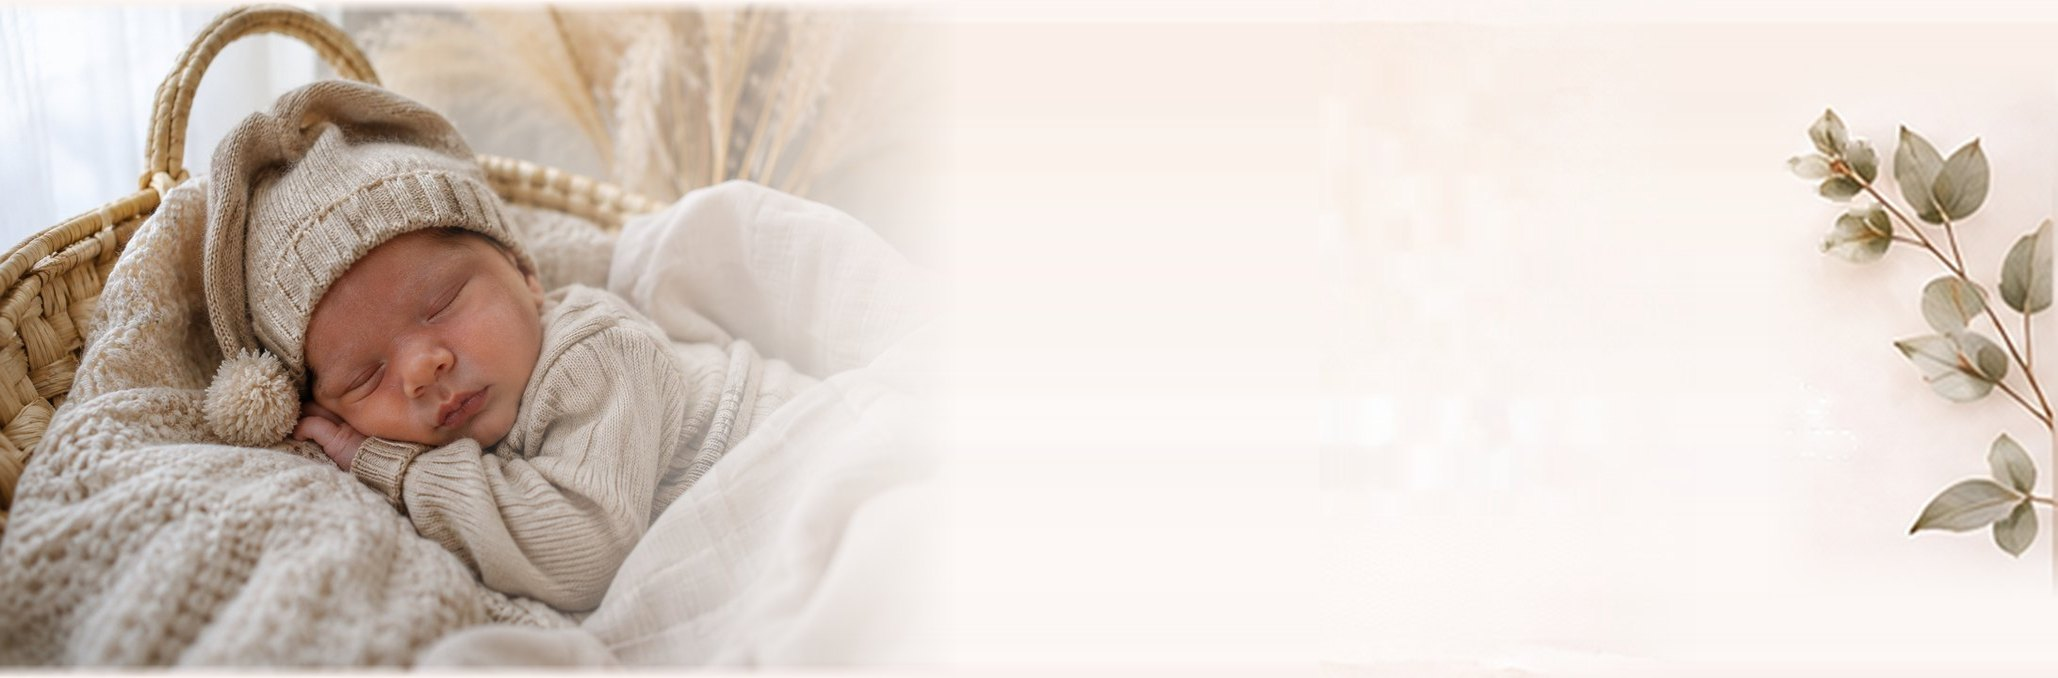
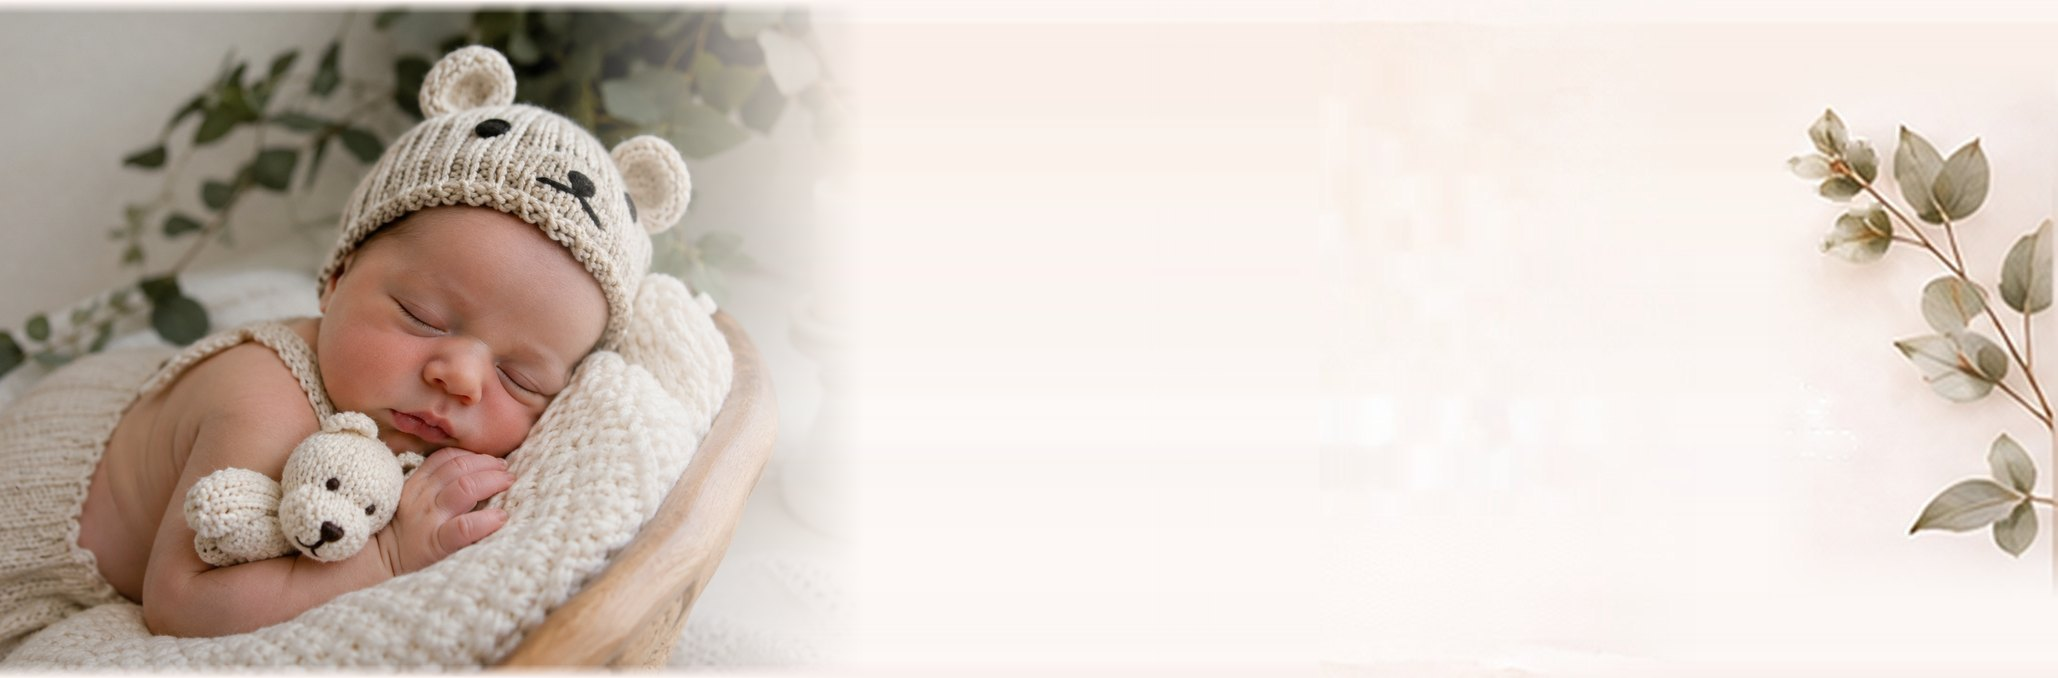
Inverser les photos de nouveau-né (ourson dans Souvenirs, panier dans les univers)
Claude-Session: https://claude.ai/code/session_01Rh5XKVHsHEJX8tgAbBS3Nk

diff --git a/index.html b/index.html
@@ -15,7 +15,7 @@
 <link rel="preconnect" href="https://fonts.googleapis.com">
 <link rel="preconnect" href="https://fonts.gstatic.com" crossorigin>
 <link href="https://fonts.googleapis.com/css2?family=Great+Vibes&family=Sacramento&family=Cormorant+Garamond:ital,wght@0,500;0,600;1,500&family=Nunito:wght@400;600;700;800&display=swap" rel="stylesheet">
-<link rel="stylesheet" href="style.css?v=1795392304">
+<link rel="stylesheet" href="style.css?v=1795392397">
 </head>
 <body>
 <a href="#contenu" class="sr-only">Aller au contenu</a>
@@ -60,7 +60,7 @@
     </div>
   </div>
 </section>
-<section class="souvenirs dechire-bas" style="--fond-dechire:#f6ebe4" role="img" aria-label="Nouveau-né endormi dans un panier avec un bonnet">
+<section class="souvenirs dechire-bas" style="--fond-dechire:#f6ebe4" role="img" aria-label="Nouveau-né endormi avec un bonnet d'ourson">
   <div class="interieur">
     <div class="texte">
       <h2><img class="titre-script" src="images/titre-souvenirs.svg" alt="Des souvenirs authentiques" width="176" height="66"><span class="et">&amp; remplis d'émotions</span></h2>
@@ -73,7 +73,7 @@
 <section class="univers">
   <div class="interieur">
     <h2 class="titre-section">Mes univers <em>photo</em>graphiques <span class="coeur"><svg viewBox="190 172 30 34" fill="none" stroke="currentColor" stroke-width="1.3" stroke-linecap="round" stroke-linejoin="round" aria-hidden="true"><path d="M203.6 186.2C201.2 179 196 174.6 193.4 177.6C190.6 181.4 194.5 189.5 202 203.8C206.5 195.5 216.6 186.8 216.8 179C216.9 174.4 209.6 173.6 203.6 186.2"/></svg></span></h2>
-    <div class="grille-univers"><a class="carte-univers" href="prestations/#grossesse"><span class="photo"><img src="images/grossesse.jpg" alt="Séance grossesse" loading="lazy"></span><span class="nom">Grossesse</span></a><a class="carte-univers" href="prestations/#accouchement"><span class="photo"><img src="images/accouchement-carre.jpg" alt="Séance accouchement" loading="lazy"></span><span class="nom">Accouchement</span></a><a class="carte-univers" href="prestations/#nouveau-ne"><span class="photo"><img src="images/nouveau-ne-ourson.jpg" alt="Séance nouveau-né" loading="lazy"></span><span class="nom">Nouveau-né</span></a><a class="carte-univers" href="prestations/#famille"><span class="photo"><img src="images/famille-2.jpg" alt="Séance famille" loading="lazy"></span><span class="nom">Famille</span></a><a class="carte-univers" href="prestations/#couple"><span class="photo"><img src="images/couple.jpg" alt="Séance couple" loading="lazy"></span><span class="nom">Couple</span></a><a class="carte-univers" href="prestations/#noel"><span class="photo"><span class="etiquette-promo">PROMO 95 $</span><img src="images/noel-2.jpg" alt="Séance noël" loading="lazy"></span><span class="nom">Noël</span></a><a class="carte-univers" href="prestations/#fetes"><span class="photo"><img src="images/fetes.jpg" alt="Séance fêtes" loading="lazy"></span><span class="nom">Fêtes</span></a><a class="carte-univers" href="prestations/#garderie-ecole"><span class="photo"><img src="images/garderie-ecole.jpg" alt="Séance garderie / école" loading="lazy"></span><span class="nom">Garderie / École</span></a><a class="carte-univers" href="prestations/#finissants"><span class="photo"><img src="images/finissants.jpg" alt="Séance finissants" loading="lazy"></span><span class="nom">Finissants</span></a><a class="carte-univers" href="prestations/#bal"><span class="photo"><img src="images/bal.jpg" alt="Séance bal de promos" loading="lazy"></span><span class="nom">Bal de promos</span></a></div>
+    <div class="grille-univers"><a class="carte-univers" href="prestations/#grossesse"><span class="photo"><img src="images/grossesse.jpg" alt="Séance grossesse" loading="lazy"></span><span class="nom">Grossesse</span></a><a class="carte-univers" href="prestations/#accouchement"><span class="photo"><img src="images/accouchement-carre.jpg" alt="Séance accouchement" loading="lazy"></span><span class="nom">Accouchement</span></a><a class="carte-univers" href="prestations/#nouveau-ne"><span class="photo"><img src="images/nouveau-ne.jpg" alt="Séance nouveau-né" loading="lazy"></span><span class="nom">Nouveau-né</span></a><a class="carte-univers" href="prestations/#famille"><span class="photo"><img src="images/famille-2.jpg" alt="Séance famille" loading="lazy"></span><span class="nom">Famille</span></a><a class="carte-univers" href="prestations/#couple"><span class="photo"><img src="images/couple.jpg" alt="Séance couple" loading="lazy"></span><span class="nom">Couple</span></a><a class="carte-univers" href="prestations/#noel"><span class="photo"><span class="etiquette-promo">PROMO 95 $</span><img src="images/noel-2.jpg" alt="Séance noël" loading="lazy"></span><span class="nom">Noël</span></a><a class="carte-univers" href="prestations/#fetes"><span class="photo"><img src="images/fetes.jpg" alt="Séance fêtes" loading="lazy"></span><span class="nom">Fêtes</span></a><a class="carte-univers" href="prestations/#garderie-ecole"><span class="photo"><img src="images/garderie-ecole.jpg" alt="Séance garderie / école" loading="lazy"></span><span class="nom">Garderie / École</span></a><a class="carte-univers" href="prestations/#finissants"><span class="photo"><img src="images/finissants.jpg" alt="Séance finissants" loading="lazy"></span><span class="nom">Finissants</span></a><a class="carte-univers" href="prestations/#bal"><span class="photo"><img src="images/bal.jpg" alt="Séance bal de promos" loading="lazy"></span><span class="nom">Bal de promos</span></a></div>
   </div>
 </section>
 <section class="engagements">
@@ -91,7 +91,7 @@
     <div class="coord"><a href="tel:+15067870667">506-787-0667</a> · <a href="mailto:bonjour@norelias.ca">bonjour@norelias.ca</a></div>
   </div>
 </footer>
-<script src="config.js?v=1795392304"></script>
-<script src="script.js?v=1795392304"></script>
+<script src="config.js?v=1795392397"></script>
+<script src="script.js?v=1795392397"></script>
 </body>
 </html>

diff --git a/style.css b/style.css
@@ -363,7 +363,7 @@ main{background:var(--creme)}
   .bande-noel .details{flex-wrap:wrap;gap:calc(4 * var(--u)) calc(12 * var(--u));font-size:calc(14 * var(--u))}
   .bande-noel .petit{font-size:calc(12 * var(--u))}
   .bande-noel .bouton{font-size:calc(14 * var(--u))}
-  .souvenirs{--u:calc(100vw / 420);height:calc(262 * var(--u));background-size:cover;background-position:left center}
+  .souvenirs{--u:calc(100vw / 420);height:calc(262 * var(--u));background-size:auto 100%;background-position:-30px center}
   .souvenirs::before{content:"";position:absolute;inset:0;background:linear-gradient(90deg,rgba(248,238,230,0) 38%,rgba(248,238,230,.92) 52%)}
   .souvenirs .texte{left:calc(192 * var(--u));top:calc(14 * var(--u));width:calc(218 * var(--u))}
   .souvenirs h2 .titre-script{width:calc(160 * var(--u))}
@@ -376,7 +376,7 @@ main{background:var(--creme)}
   .grille-univers{padding:0}
   .carte-univers{width:calc(20% - calc(8 * var(--u)))}
   .carte-univers .photo{height:calc(72 * var(--u))}
-  .carte-univers .nom{font-size:calc(13.5 * var(--u));margin-top:calc(5 * var(--u));line-height:1.1}
+  .carte-univers .nom{font-size:calc(12 * var(--u));margin-top:calc(5 * var(--u));line-height:1.1}
   .engagements{--u:calc(100vw / 420);height:auto;padding:calc(14 * var(--u)) 0 calc(26 * var(--u))}
   .engagements .grille{gap:calc(10 * var(--u));padding:0 calc(10 * var(--u));align-items:flex-start}
   .engagement{flex-direction:column;text-align:center;gap:calc(6 * var(--u));font-size:calc(12 * var(--u));flex:1}

diff --git a/style.src.css b/style.src.css
@@ -361,7 +361,7 @@ main{background:var(--creme)}
   .bande-noel .details{flex-wrap:wrap;gap:4u 12u;font-size:14u}
   .bande-noel .petit{font-size:12u}
   .bande-noel .bouton{font-size:14u}
-  .souvenirs{--u:calc(100vw / 420);height:262u;background-size:cover;background-position:left center}
+  .souvenirs{--u:calc(100vw / 420);height:262u;background-size:auto 100%;background-position:-30px center}
   .souvenirs::before{content:"";position:absolute;inset:0;background:linear-gradient(90deg,rgba(248,238,230,0) 38%,rgba(248,238,230,.92) 52%)}
   .souvenirs .texte{left:192u;top:14u;width:218u}
   .souvenirs h2 .titre-script{width:160u}
@@ -374,7 +374,7 @@ main{background:var(--creme)}
   .grille-univers{padding:0}
   .carte-univers{width:calc(20% - 8u)}
   .carte-univers .photo{height:72u}
-  .carte-univers .nom{font-size:13.5u;margin-top:5u;line-height:1.1}
+  .carte-univers .nom{font-size:12u;margin-top:5u;line-height:1.1}
   .engagements{--u:calc(100vw / 420);height:auto;padding:14u 0 26u}
   .engagements .grille{gap:10u;padding:0 10u;align-items:flex-start}
   .engagement{flex-direction:column;text-align:center;gap:6u;font-size:12u;flex:1}

diff --git a/reservation/index.html b/reservation/index.html
@@ -15,7 +15,7 @@
 <link rel="preconnect" href="https://fonts.googleapis.com">
 <link rel="preconnect" href="https://fonts.gstatic.com" crossorigin>
 <link href="https://fonts.googleapis.com/css2?family=Great+Vibes&family=Sacramento&family=Cormorant+Garamond:ital,wght@0,500;0,600;1,500&family=Nunito:wght@400;600;700;800&display=swap" rel="stylesheet">
-<link rel="stylesheet" href="../style.css?v=1795392304">
+<link rel="stylesheet" href="../style.css?v=1795392397">
 </head>
 <body>
 <a href="#contenu" class="sr-only">Aller au contenu</a>
@@ -101,7 +101,7 @@
     <div class="coord"><a href="tel:+15067870667">506-787-0667</a> · <a href="mailto:bonjour@norelias.ca">bonjour@norelias.ca</a></div>
   </div>
 </footer>
-<script src="../config.js?v=1795392304"></script>
-<script src="../script.js?v=1795392304"></script>
+<script src="../config.js?v=1795392397"></script>
+<script src="../script.js?v=1795392397"></script>
 </body>
 </html>

diff --git a/a-propos/index.html b/a-propos/index.html
@@ -15,7 +15,7 @@
 <link rel="preconnect" href="https://fonts.googleapis.com">
 <link rel="preconnect" href="https://fonts.gstatic.com" crossorigin>
 <link href="https://fonts.googleapis.com/css2?family=Great+Vibes&family=Sacramento&family=Cormorant+Garamond:ital,wght@0,500;0,600;1,500&family=Nunito:wght@400;600;700;800&display=swap" rel="stylesheet">
-<link rel="stylesheet" href="../style.css?v=1795392304">
+<link rel="stylesheet" href="../style.css?v=1795392397">
 </head>
 <body>
 <a href="#contenu" class="sr-only">Aller au contenu</a>
@@ -49,7 +49,7 @@
     <div class="coord"><a href="tel:+15067870667">506-787-0667</a> · <a href="mailto:bonjour@norelias.ca">bonjour@norelias.ca</a></div>
   </div>
 </footer>
-<script src="../config.js?v=1795392304"></script>
-<script src="../script.js?v=1795392304"></script>
+<script src="../config.js?v=1795392397"></script>
+<script src="../script.js?v=1795392397"></script>
 </body>
 </html>

diff --git a/confidentialite/index.html b/confidentialite/index.html
@@ -15,7 +15,7 @@
 <link rel="preconnect" href="https://fonts.googleapis.com">
 <link rel="preconnect" href="https://fonts.gstatic.com" crossorigin>
 <link href="https://fonts.googleapis.com/css2?family=Great+Vibes&family=Sacramento&family=Cormorant+Garamond:ital,wght@0,500;0,600;1,500&family=Nunito:wght@400;600;700;800&display=swap" rel="stylesheet">
-<link rel="stylesheet" href="../style.css?v=1795392304">
+<link rel="stylesheet" href="../style.css?v=1795392397">
 </head>
 <body>
 <a href="#contenu" class="sr-only">Aller au contenu</a>
@@ -47,7 +47,7 @@
     <div class="coord"><a href="tel:+15067870667">506-787-0667</a> · <a href="mailto:bonjour@norelias.ca">bonjour@norelias.ca</a></div>
   </div>
 </footer>
-<script src="../config.js?v=1795392304"></script>
-<script src="../script.js?v=1795392304"></script>
+<script src="../config.js?v=1795392397"></script>
+<script src="../script.js?v=1795392397"></script>
 </body>
 </html>

diff --git a/politique-reservation/index.html b/politique-reservation/index.html
@@ -15,7 +15,7 @@
 <link rel="preconnect" href="https://fonts.googleapis.com">
 <link rel="preconnect" href="https://fonts.gstatic.com" crossorigin>
 <link href="https://fonts.googleapis.com/css2?family=Great+Vibes&family=Sacramento&family=Cormorant+Garamond:ital,wght@0,500;0,600;1,500&family=Nunito:wght@400;600;700;800&display=swap" rel="stylesheet">
-<link rel="stylesheet" href="../style.css?v=1795392304">
+<link rel="stylesheet" href="../style.css?v=1795392397">
 </head>
 <body>
 <a href="#contenu" class="sr-only">Aller au contenu</a>
@@ -41,7 +41,7 @@
     <div class="coord"><a href="tel:+15067870667">506-787-0667</a> · <a href="mailto:bonjour@norelias.ca">bonjour@norelias.ca</a></div>
   </div>
 </footer>
-<script src="../config.js?v=1795392304"></script>
-<script src="../script.js?v=1795392304"></script>
+<script src="../config.js?v=1795392397"></script>
+<script src="../script.js?v=1795392397"></script>
 </body>
 </html>

diff --git a/portfolio/index.html b/portfolio/index.html
@@ -15,7 +15,7 @@
 <link rel="preconnect" href="https://fonts.googleapis.com">
 <link rel="preconnect" href="https://fonts.gstatic.com" crossorigin>
 <link href="https://fonts.googleapis.com/css2?family=Great+Vibes&family=Sacramento&family=Cormorant+Garamond:ital,wght@0,500;0,600;1,500&family=Nunito:wght@400;600;700;800&display=swap" rel="stylesheet">
-<link rel="stylesheet" href="../style.css?v=1795392304">
+<link rel="stylesheet" href="../style.css?v=1795392397">
 </head>
 <body>
 <a href="#contenu" class="sr-only">Aller au contenu</a>
@@ -40,7 +40,7 @@
     <div class="coord"><a href="tel:+15067870667">506-787-0667</a> · <a href="mailto:bonjour@norelias.ca">bonjour@norelias.ca</a></div>
   </div>
 </footer>
-<script src="../config.js?v=1795392304"></script>
-<script src="../script.js?v=1795392304"></script>
+<script src="../config.js?v=1795392397"></script>
+<script src="../script.js?v=1795392397"></script>
 </body>
 </html>

diff --git a/prestations/index.html b/prestations/index.html
@@ -15,7 +15,7 @@
 <link rel="preconnect" href="https://fonts.googleapis.com">
 <link rel="preconnect" href="https://fonts.gstatic.com" crossorigin>
 <link href="https://fonts.googleapis.com/css2?family=Great+Vibes&family=Sacramento&family=Cormorant+Garamond:ital,wght@0,500;0,600;1,500&family=Nunito:wght@400;600;700;800&display=swap" rel="stylesheet">
-<link rel="stylesheet" href="../style.css?v=1795392304">
+<link rel="stylesheet" href="../style.css?v=1795392397">
 </head>
 <body>
 <a href="#contenu" class="sr-only">Aller au contenu</a>
@@ -40,7 +40,7 @@
     <div class="coord"><a href="tel:+15067870667">506-787-0667</a> · <a href="mailto:bonjour@norelias.ca">bonjour@norelias.ca</a></div>
   </div>
 </footer>
-<script src="../config.js?v=1795392304"></script>
-<script src="../script.js?v=1795392304"></script>
+<script src="../config.js?v=1795392397"></script>
+<script src="../script.js?v=1795392397"></script>
 </body>
 </html>

diff --git a/tarifs/index.html b/tarifs/index.html
@@ -15,7 +15,7 @@
 <link rel="preconnect" href="https://fonts.googleapis.com">
 <link rel="preconnect" href="https://fonts.gstatic.com" crossorigin>
 <link href="https://fonts.googleapis.com/css2?family=Great+Vibes&family=Sacramento&family=Cormorant+Garamond:ital,wght@0,500;0,600;1,500&family=Nunito:wght@400;600;700;800&display=swap" rel="stylesheet">
-<link rel="stylesheet" href="../style.css?v=1795392304">
+<link rel="stylesheet" href="../style.css?v=1795392397">
 </head>
 <body>
 <a href="#contenu" class="sr-only">Aller au contenu</a>
@@ -54,7 +54,7 @@
     <div class="coord"><a href="tel:+15067870667">506-787-0667</a> · <a href="mailto:bonjour@norelias.ca">bonjour@norelias.ca</a></div>
   </div>
 </footer>
-<script src="../config.js?v=1795392304"></script>
-<script src="../script.js?v=1795392304"></script>
+<script src="../config.js?v=1795392397"></script>
+<script src="../script.js?v=1795392397"></script>
 </body>
 </html>

diff --git a/404.html b/404.html
@@ -15,7 +15,7 @@
 <link rel="preconnect" href="https://fonts.googleapis.com">
 <link rel="preconnect" href="https://fonts.gstatic.com" crossorigin>
 <link href="https://fonts.googleapis.com/css2?family=Great+Vibes&family=Sacramento&family=Cormorant+Garamond:ital,wght@0,500;0,600;1,500&family=Nunito:wght@400;600;700;800&display=swap" rel="stylesheet">
-<link rel="stylesheet" href="/style.css?v=1795392304">
+<link rel="stylesheet" href="/style.css?v=1795392397">
 </head>
 <body>
 <a href="#contenu" class="sr-only">Aller au contenu</a>
@@ -37,7 +37,7 @@
     <div class="coord"><a href="tel:+15067870667">506-787-0667</a> · <a href="mailto:bonjour@norelias.ca">bonjour@norelias.ca</a></div>
   </div>
 </footer>
-<script src="/config.js?v=1795392304"></script>
-<script src="/script.js?v=1795392304"></script>
+<script src="/config.js?v=1795392397"></script>
+<script src="/script.js?v=1795392397"></script>
 </body>
 </html>

diff --git a/outils/construire.py b/outils/construire.py
@@ -30,7 +30,7 @@ SEANCES = [  # nom, code, image carte, description
     ('Noël', 'noel', 'noel.jpg', 'Mini-séances de 20 minutes dans un décor de Noël, en décembre.'),
 ]
 UNIVERS = ['grossesse', 'accouchement', 'nouveau-ne', 'famille', 'couple', 'noel', 'fetes', 'garderie-ecole', 'finissants', 'bal']
-UNIV_IMG = {'noel': 'noel-2.jpg', 'grossesse': 'grossesse.jpg', 'nouveau-ne': 'nouveau-ne-ourson.jpg', 'accouchement': 'accouchement-carre.jpg'}
+UNIV_IMG = {'noel': 'noel-2.jpg', 'grossesse': 'grossesse.jpg', 'accouchement': 'accouchement-carre.jpg'}
 
 def reseaux():
     return ('<div class="reseaux">'
@@ -140,7 +140,7 @@ def accueil():
     </div>
   </div>
 </section>
-<section class="souvenirs dechire-bas" style="--fond-dechire:#f6ebe4" role="img" aria-label="Nouveau-né endormi dans un panier avec un bonnet">
+<section class="souvenirs dechire-bas" style="--fond-dechire:#f6ebe4" role="img" aria-label="Nouveau-né endormi avec un bonnet d'ourson">
   <div class="interieur">
     <div class="texte">
       <h2><img class="titre-script" src="{{r}}images/titre-souvenirs.svg" alt="Des souvenirs authentiques" width="176" height="66"><span class="et">&amp; remplis d'émotions</span></h2>
